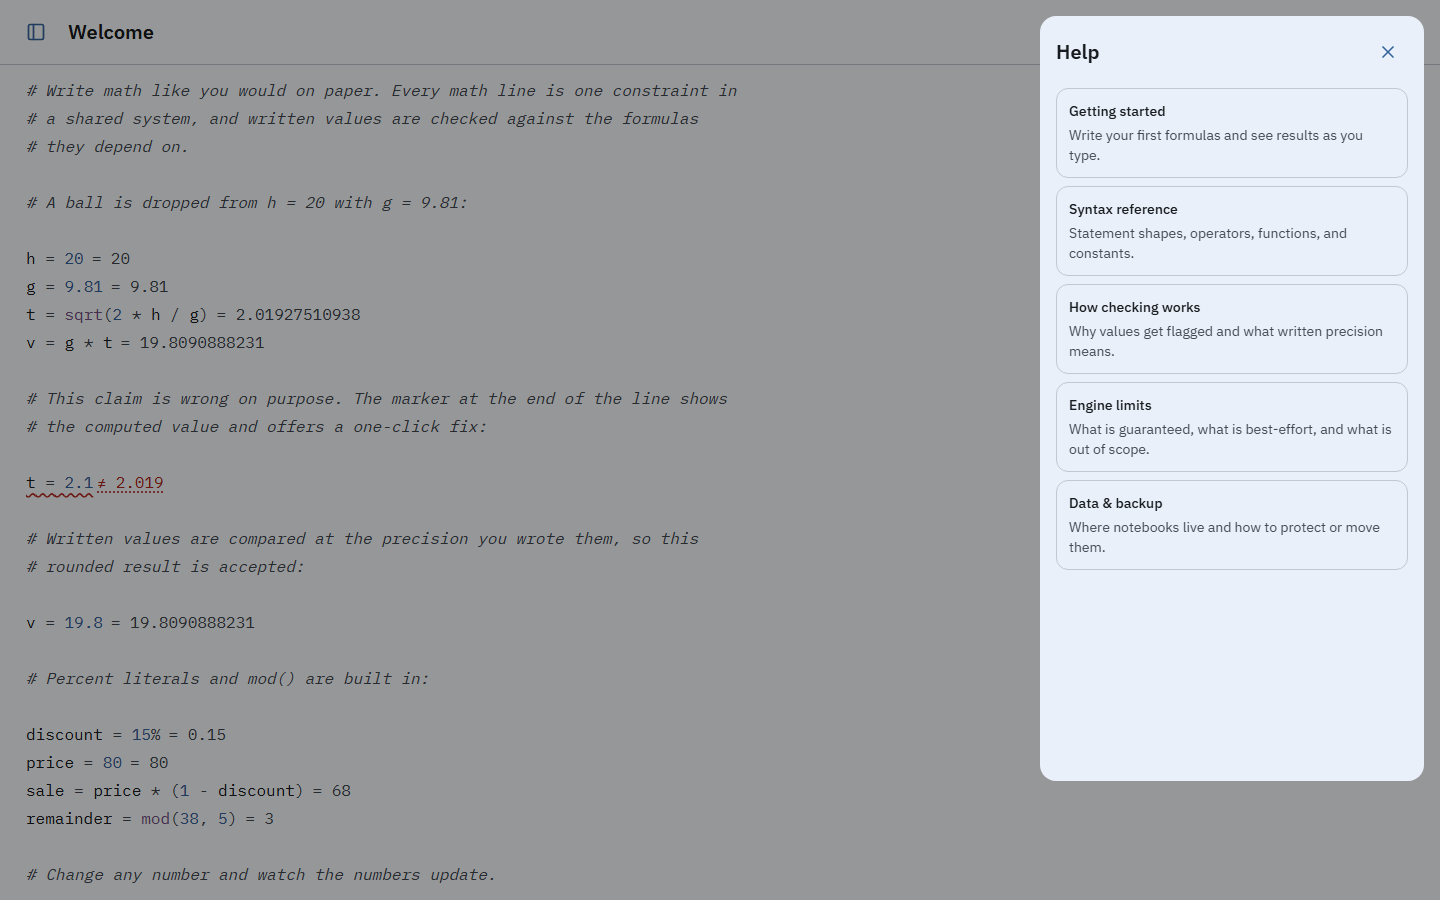
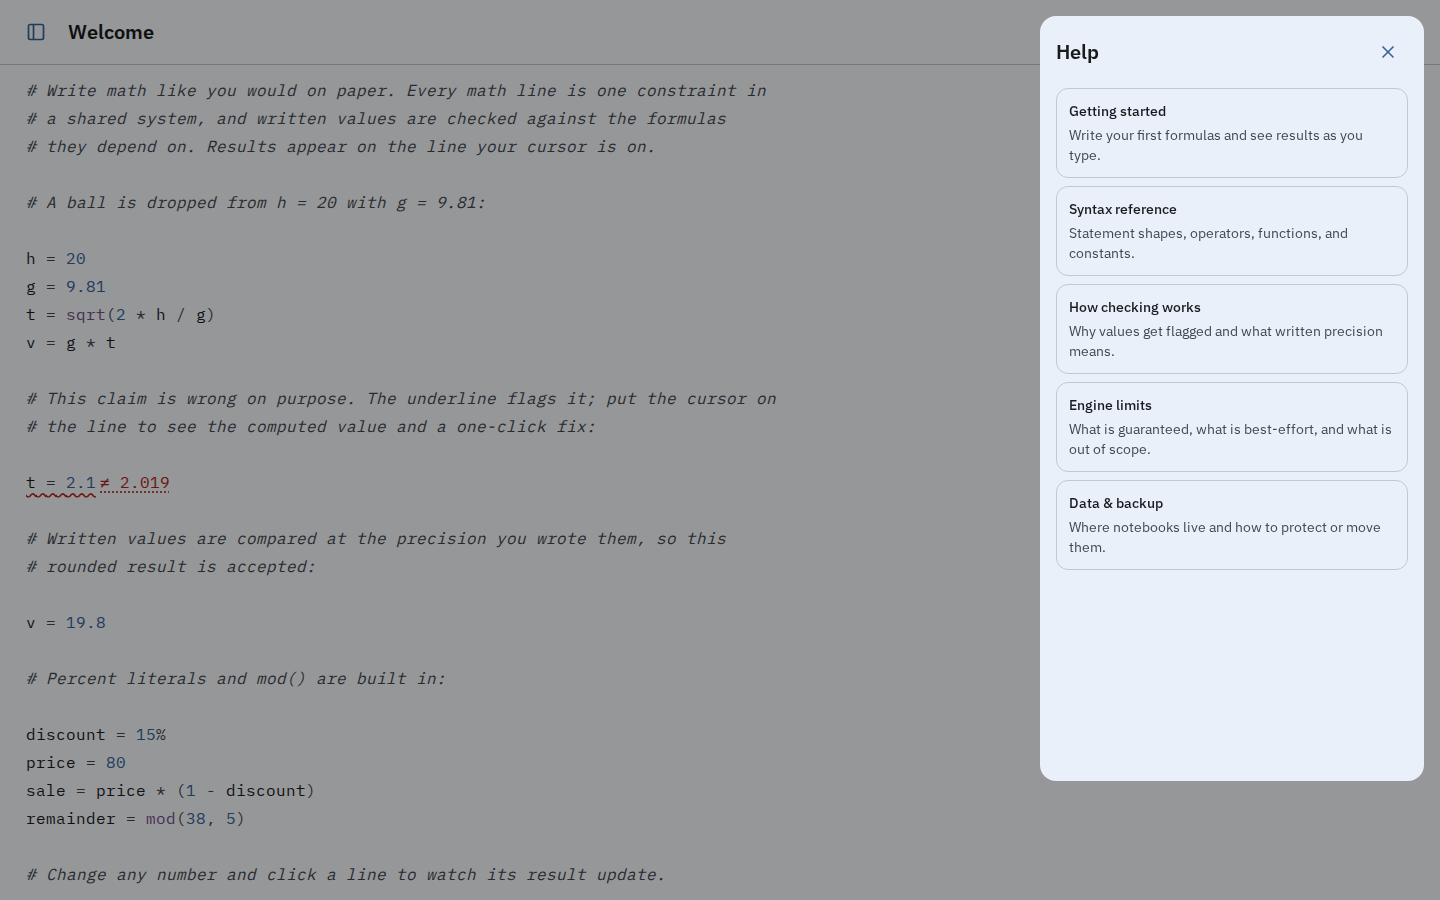
feat(editor): show results and fixes only on the caret's line
The document now stays plain away from the cursor: computed `= value` results render only on the line holding the caret, matching the conflict and duplicate fixes that were already caret-gated. Conflict underlines, unresolved notes and quiet warning marks still show everywhere, so mistakes stay visible. Docs, the welcome notebook, the README and the regenerated screenshots describe the behavior; e2e covers click-to-reveal and the caret-gated fix.

diff --git a/src/features/notebook/editor/annotations.test.ts b/src/features/notebook/editor/annotations.test.ts
@@ -65,7 +65,7 @@ function widgets(
 
 describe('annotationDecorations', () => {
   it('maps a result to a muted inline widget at the line end', () => {
-    const set = annotationDecorations([result], false)
+    const set = annotationDecorations([result], false, 0)
     const [widget] = widgets(entries(set))
     expect(widget).toEqual({ from: 5, to: 5, text: '= 7', block: false })
     expect(entries(set).every((entry) => entry.decoration.spec.class !== 'cm-ann-conflict')).toBe(
@@ -74,14 +74,25 @@ describe('annotationDecorations', () => {
   })
 
   it('places result widgets as indented block widgets when narrow', () => {
-    const set = annotationDecorations([result], true)
+    const set = annotationDecorations([result], true, 0)
     const [widget] = widgets(entries(set))
     expect(widget?.block).toBe(true)
     expect(widget?.text).toBe('= 7')
   })
 
-  it('underlines a conflict and offers the expected value inline', () => {
-    const set = annotationDecorations([conflict], false)
+  it('hides a result when the caret is on another line', () => {
+    const set = annotationDecorations([result], false, 2)
+    expect(widgets(entries(set))).toEqual([])
+  })
+
+  it('renders only the result on the caret line among several results', () => {
+    const other: Annotation = { line: 1, from: 6, to: 11, kind: 'result', text: '9' }
+    const set = annotationDecorations([result, other], false, 1)
+    expect(widgets(entries(set)).map((widget) => widget.text)).toEqual(['= 9'])
+  })
+
+  it('underlines a conflict and offers the expected value while the caret is on its line', () => {
+    const set = annotationDecorations([conflict], false, 1)
     const mark = entries(set).find((entry) => entry.decoration.spec.class === 'cm-ann-conflict')
     expect(mark?.from).toBe(6)
     expect(mark?.to).toBe(13)
@@ -89,14 +100,29 @@ describe('annotationDecorations', () => {
     expect(widget?.text).toBe('≠ 2.019')
   })
 
+  it('hides a conflict fix when the caret is elsewhere but keeps the underline', () => {
+    const set = annotationDecorations([conflict], false, 0)
+    const mark = entries(set).find((entry) => entry.decoration.spec.class === 'cm-ann-conflict')
+    expect(mark?.from).toBe(6)
+    expect(mark?.to).toBe(13)
+    expect(widgets(entries(set))).toEqual([])
+  })
+
   it('renders fixable duplicates as error notes and bare errors as a warning mark', () => {
-    const set = annotationDecorations([duplicate, error], false)
+    const set = annotationDecorations([duplicate, error], false, 2)
     const found = widgets(entries(set))
     expect(found.map((widget) => widget.text)).toEqual(['↩ b + 1', '⚠'])
   })
 
+  it('downgrades an off-caret duplicate fix to a quiet warning', () => {
+    const off = annotationDecorations([duplicate], false, 0)
+    expect(widgets(entries(off)).map((widget) => widget.text)).toEqual(['⚠'])
+    const on = annotationDecorations([duplicate], false, 2)
+    expect(widgets(entries(on)).map((widget) => widget.text)).toEqual(['↩ b + 1'])
+  })
+
   it('shows unresolved symbolic text or a quiet ellipsis', () => {
-    const set = annotationDecorations([unresolved, emptyUnresolved], false)
+    const set = annotationDecorations([unresolved, emptyUnresolved], false, 4)
     const found = widgets(entries(set))
     expect(found.map((widget) => widget.text)).toEqual(['= 1 + y', '…'])
   })

diff --git a/src/features/notebook/editor/annotations.ts b/src/features/notebook/editor/annotations.ts
@@ -54,15 +54,21 @@ function warningNote(text: string): HTMLSpanElement {
 class AnnotationWidget extends WidgetType {
   private readonly annotation: Annotation
   private readonly narrow: boolean
+  private readonly showFix: boolean
 
-  constructor(annotation: Annotation, narrow: boolean) {
+  constructor(annotation: Annotation, narrow: boolean, showFix: boolean) {
     super()
     this.annotation = annotation
     this.narrow = narrow
+    this.showFix = showFix
   }
 
   eq(other: AnnotationWidget): boolean {
-    return other.annotation === this.annotation && other.narrow === this.narrow
+    return (
+      other.annotation === this.annotation &&
+      other.narrow === this.narrow &&
+      other.showFix === this.showFix
+    )
   }
 
   ignoreEvent(): boolean {
@@ -79,14 +85,19 @@ class AnnotationWidget extends WidgetType {
     }
     if (annotation.kind === 'conflict') return fixButton(annotation)
     if (annotation.kind === 'error') {
-      if (annotation.fix !== undefined) return fixButton(annotation)
+      if (annotation.fix !== undefined)
+        return this.showFix ? fixButton(annotation) : warningNote('⚠')
       return warningNote('⚠')
     }
     return warningNote(annotation.text === '' ? '…' : `= ${annotation.text}`)
   }
 }
 
-export function annotationDecorations(annotations: Annotation[], narrow: boolean): DecorationSet {
+export function annotationDecorations(
+  annotations: Annotation[],
+  narrow: boolean,
+  caretLine: number,
+): DecorationSet {
   const ranges: Range<Decoration>[] = []
   for (const annotation of annotations) {
     if (annotation.kind === 'conflict' && annotation.from < annotation.to) {
@@ -94,7 +105,10 @@ export function annotationDecorations(annotations: Annotation[], narrow: boolean
         Decoration.mark({ class: 'cm-ann-conflict' }).range(annotation.from, annotation.to),
       )
     }
-    const widget = new AnnotationWidget(annotation, narrow)
+    if (annotation.kind === 'result' && annotation.line !== caretLine) continue
+    const showFix = annotation.fix !== undefined && annotation.line === caretLine
+    if (annotation.fix !== undefined && !showFix && annotation.kind === 'conflict') continue
+    const widget = new AnnotationWidget(annotation, narrow, showFix)
     ranges.push(
       Decoration.widget({
         widget,
@@ -109,7 +123,11 @@ export function annotationDecorations(annotations: Annotation[], narrow: boolean
 export const annotationsExtension: Extension = [
   annotationField,
   narrowField,
-  EditorView.decorations.compute([annotationField, narrowField], (state) =>
-    annotationDecorations(state.field(annotationField), state.field(narrowField)),
+  EditorView.decorations.compute([annotationField, narrowField, 'selection'], (state) =>
+    annotationDecorations(
+      state.field(annotationField),
+      state.field(narrowField),
+      state.doc.lineAt(state.selection.main.head).number - 1,
+    ),
   ),
 ]

diff --git a/src/features/notebook/editor/conflictFix.test.tsx b/src/features/notebook/editor/conflictFix.test.tsx
@@ -6,9 +6,9 @@ import { afterEach, beforeEach, describe, expect, it, vi } from 'vitest'
 import type { Annotation, SolveSettings } from '@/engine/types'
 import { MockWorker } from '@/test/mockWorker'
 import { NotebookEditor } from '../NotebookEditor'
-import { annotationField, setAnnotations } from './annotations'
+import { annotationField, annotationsExtension, setAnnotations } from './annotations'
 import { applyFix, conflictFixKeymap } from './conflictFix'
-import { annotationDetail, type EditorLabels } from './tooltips'
+import { annotationDetail, annotationTooltips, type EditorLabels } from './tooltips'
 
 const settings: SolveSettings = { angleMode: 'radians', precision: 12, toleranceOverride: null }
 
@@ -62,6 +62,43 @@ describe('conflictFixKeymap', () => {
 
     view.dispatch({ selection: { anchor: 10 } })
     expect(binding.run(view)).toBe(false)
+    view.destroy()
+  })
+})
+
+describe('fix visibility follows the caret', () => {
+  it('shows a conflict fix only while the caret is on its line', () => {
+    const view = createView('t = 2.1\nx = 1', [annotationsExtension])
+    view.dispatch({ effects: setAnnotations([conflict]) })
+    expect(view.dom.querySelector('button.cm-ann-fix')).not.toBeNull()
+
+    view.dispatch({ selection: { anchor: 10 } })
+    expect(view.dom.querySelector('button.cm-ann-fix')).toBeNull()
+
+    view.dispatch({ selection: { anchor: 1 } })
+    expect(view.dom.querySelector('button.cm-ann-fix')).not.toBeNull()
+    view.destroy()
+  })
+
+  it('labels a fix that appears when the caret moves onto its line', () => {
+    const moved: Annotation = {
+      line: 1,
+      from: 6,
+      to: 13,
+      kind: 'conflict',
+      text: '2.019',
+      expected: '2.019',
+      fix: { from: 10, to: 13, insert: '2.019' },
+    }
+    const view = createView('x = 1\nt = 2.1', [annotationsExtension, annotationTooltips(labels)])
+    view.dispatch({ effects: setAnnotations([moved]) })
+    expect(view.dom.querySelector('button.cm-ann-fix')).toBeNull()
+
+    view.dispatch({ selection: { anchor: 7 } })
+    const button = view.dom.querySelector<HTMLButtonElement>('button.cm-ann-fix')
+    expect(button?.getAttribute('aria-label')).toBe(
+      'Conflicts with the computed value (expected 2.019). Replace with computed',
+    )
     view.destroy()
   })
 })

diff --git a/src/data/sampleNotebook.ts b/src/data/sampleNotebook.ts
@@ -4,7 +4,7 @@ export const WELCOME_CONTENT = `# Welcome to Inlign.
 
 # Write math like you would on paper. Every math line is one constraint in
 # a shared system, and written values are checked against the formulas
-# they depend on.
+# they depend on. Results appear on the line your cursor is on.
 
 # A ball is dropped from h = 20 with g = 9.81:
 
@@ -13,8 +13,8 @@ g = 9.81
 t = sqrt(2 * h / g)
 v = g * t
 
-# This claim is wrong on purpose. The marker at the end of the line shows
-# the computed value and offers a one-click fix:
+# This claim is wrong on purpose. The underline flags it; put the cursor on
+# the line to see the computed value and a one-click fix:
 
 t = 2.1
 
@@ -30,5 +30,5 @@ price = 80
 sale = price * (1 - discount)
 remainder = mod(38, 5)
 
-# Change any number and watch the numbers update.
+# Change any number and click a line to watch its result update.
 `

diff --git a/tests/e2e/conflict.spec.ts b/tests/e2e/conflict.spec.ts
@@ -3,13 +3,18 @@ import { expect, test } from '@playwright/test'
 test('the seeded conflict offers a fix that clears and survives a reload', async ({ page }) => {
   await page.goto('/')
 
-  const fix = page.locator('button.cm-ann-fix')
-  await expect(fix).toHaveCount(1)
+  const editor = page.getByRole('textbox', { name: 'Notebook editor' })
+  const mark = editor.locator('.cm-ann-conflict')
+  await expect(mark).toBeVisible()
+
+  const fix = editor.locator('button.cm-ann-fix')
+  await expect(fix).toHaveCount(0)
+
+  await mark.click()
   await expect(fix).toHaveText('≠ 2.019')
 
   await fix.click()
 
-  const editor = page.getByRole('textbox', { name: 'Notebook editor' })
   await expect(editor).toContainText('t = 2.019')
   await expect(fix).toHaveCount(0)
 

diff --git a/tests/e2e/compute.spec.ts b/tests/e2e/compute.spec.ts
@@ -13,3 +13,18 @@ test('typing a formula shows its result within two seconds', async ({ page }) =>
     timeout: 2000,
   })
 })
+
+test('shows a result only on the line with the caret', async ({ page }) => {
+  await page.goto('/')
+  const editor = page.getByRole('textbox', { name: 'Notebook editor' })
+  const tResult = page.locator('.cm-ann-result', { hasText: /^= 2\.01927510938$/ })
+  await expect(editor).toContainText('t = sqrt(2 * h / g)')
+
+  await expect(tResult).toHaveCount(0)
+
+  await editor.getByText('t = sqrt(2 * h / g)').click()
+  await expect(tResult).toBeVisible()
+
+  await editor.getByText(/^h = 20$/).click()
+  await expect(tResult).toHaveCount(0)
+})

diff --git a/src/features/notebook/editor/tooltips.ts b/src/features/notebook/editor/tooltips.ts
@@ -117,7 +117,10 @@ export function annotationTooltips(labels: EditorLabels): Extension {
       { hideOn: (transaction) => transaction.docChanged },
     ),
     EditorView.updateListener.of((update) => {
-      if (update.state.field(annotationField) !== update.startState.field(annotationField)) {
+      if (
+        update.state.field(annotationField) !== update.startState.field(annotationField) ||
+        update.selectionSet
+      ) {
         syncAnnotationLabels(update.view, labels)
       }
     }),

diff --git a/README.md b/README.md
@@ -2,7 +2,8 @@
 
 Inlign is a local-first live mathematical notepad: a plain-text document where
 you draft a solution — prose, values, formulas, equations — and a general-purpose
-math engine computes every value it can, in place, as you type. It also
+math engine computes every value it can as you type, showing it at the end of
+the line you are editing. It also
 cross-checks the values you wrote against what the rest of the document implies,
 quietly flags the ones that do not add up, and offers a one-click fix.
 
@@ -44,10 +45,10 @@ v = 20.6
 
 ## Screenshots
 
-The editor with live results and a conflicting claim, plus the settings, help
-and notebook sheets.
+The editor with a computed result on the focused line and a conflicting claim,
+plus the settings, help and notebook sheets.
 
-![The editor: a result for every resolvable line, and a flagged conflict](screenshots/desktop/editor.png)
+![The editor: the focused line showing its result, and a flagged conflict](screenshots/desktop/editor.png)
 
 | Conflict detail                                                                                           | Settings                                                                                                         |
 | --------------------------------------------------------------------------------------------------------- | ---------------------------------------------------------------------------------------------------------------- |

diff --git a/masterplan.md b/masterplan.md
@@ -66,8 +66,9 @@ candidate for later; the architecture must make them additions, not rewrites.
   are flagged inline with the expected value and a one-click fix.
 - **Quiet when unsure.** Parse errors, unresolved symbols and non-converging
   solves produce a muted marker, never a wrong number.
-- **Drafting stays fluid.** Results appear inline at the line end; on narrow
-  screens they drop to an indented line of their own.
+- **Drafting stays fluid.** The line you are editing shows its result inline at
+  the line end, keeping the rest of the notebook plain; on narrow screens the
+  result drops to an indented line of its own.
 - **Answers are complete.** Equations with unknowns solve regardless of line
   order; multiple real solutions are shown up to four, plus a count.
 - **Precision is respected.** Claim checking honours the written precision of

diff --git a/src/docs/en/checking.md b/src/docs/en/checking.md
@@ -45,10 +45,12 @@ relative tolerance override instead.
 
 ## Fixing a flag
 
-A conflict marker shows the expected value and, on hover or tap, an
-explanation. The fix replaces just the right-hand side with the computed value
-as an ordinary, undoable edit. Inlign never changes your text silently: a flag
-disappears because the text was corrected, not because the check was skipped.
+The underline that flags a conflict is always visible. Put the cursor on the
+flagged line — or hover it — to see the expected value and an explanation. The
+inline fix appears only on the line you are editing; it replaces just the
+right-hand side with the computed value as an ordinary, undoable edit. Inlign
+never changes your text silently: a flag disappears because the text was
+corrected, not because the check was skipped.
 
 ## Quiet by design
 

diff --git a/src/docs/en/getting-started.md b/src/docs/en/getting-started.md
@@ -16,8 +16,9 @@ v = g * t
 
 Each complete line becomes one constraint in a single shared system. The order
 of the lines does not matter: a formula may refer to a value that appears
-further down, and `v` could be written before `t`. Results appear at the end
-of each line as you type.
+further down, and `v` could be written before `t`. The line you are editing
+shows its result at its end; click any line to see its value. Computed values
+stay on the cursor's line so the rest of the page reads like plain text.
 
 ## Catching a mistake
 

diff --git a/src/docs/en/syntax.md b/src/docs/en/syntax.md
@@ -9,7 +9,10 @@ A line that starts with `#` is always prose, whatever follows it.
 
 ## Statements
 
-There are four statement shapes, decided by what stands left of the `=`.
+There are four statement shapes, decided by what stands left of the `=`. The
+value a statement computes appears at the end of the line while your cursor is
+on it, and the rest of the notebook stays out of the way until you click into
+a line.
 
 **Claim** — a single name equals an expression with no free names:
 
